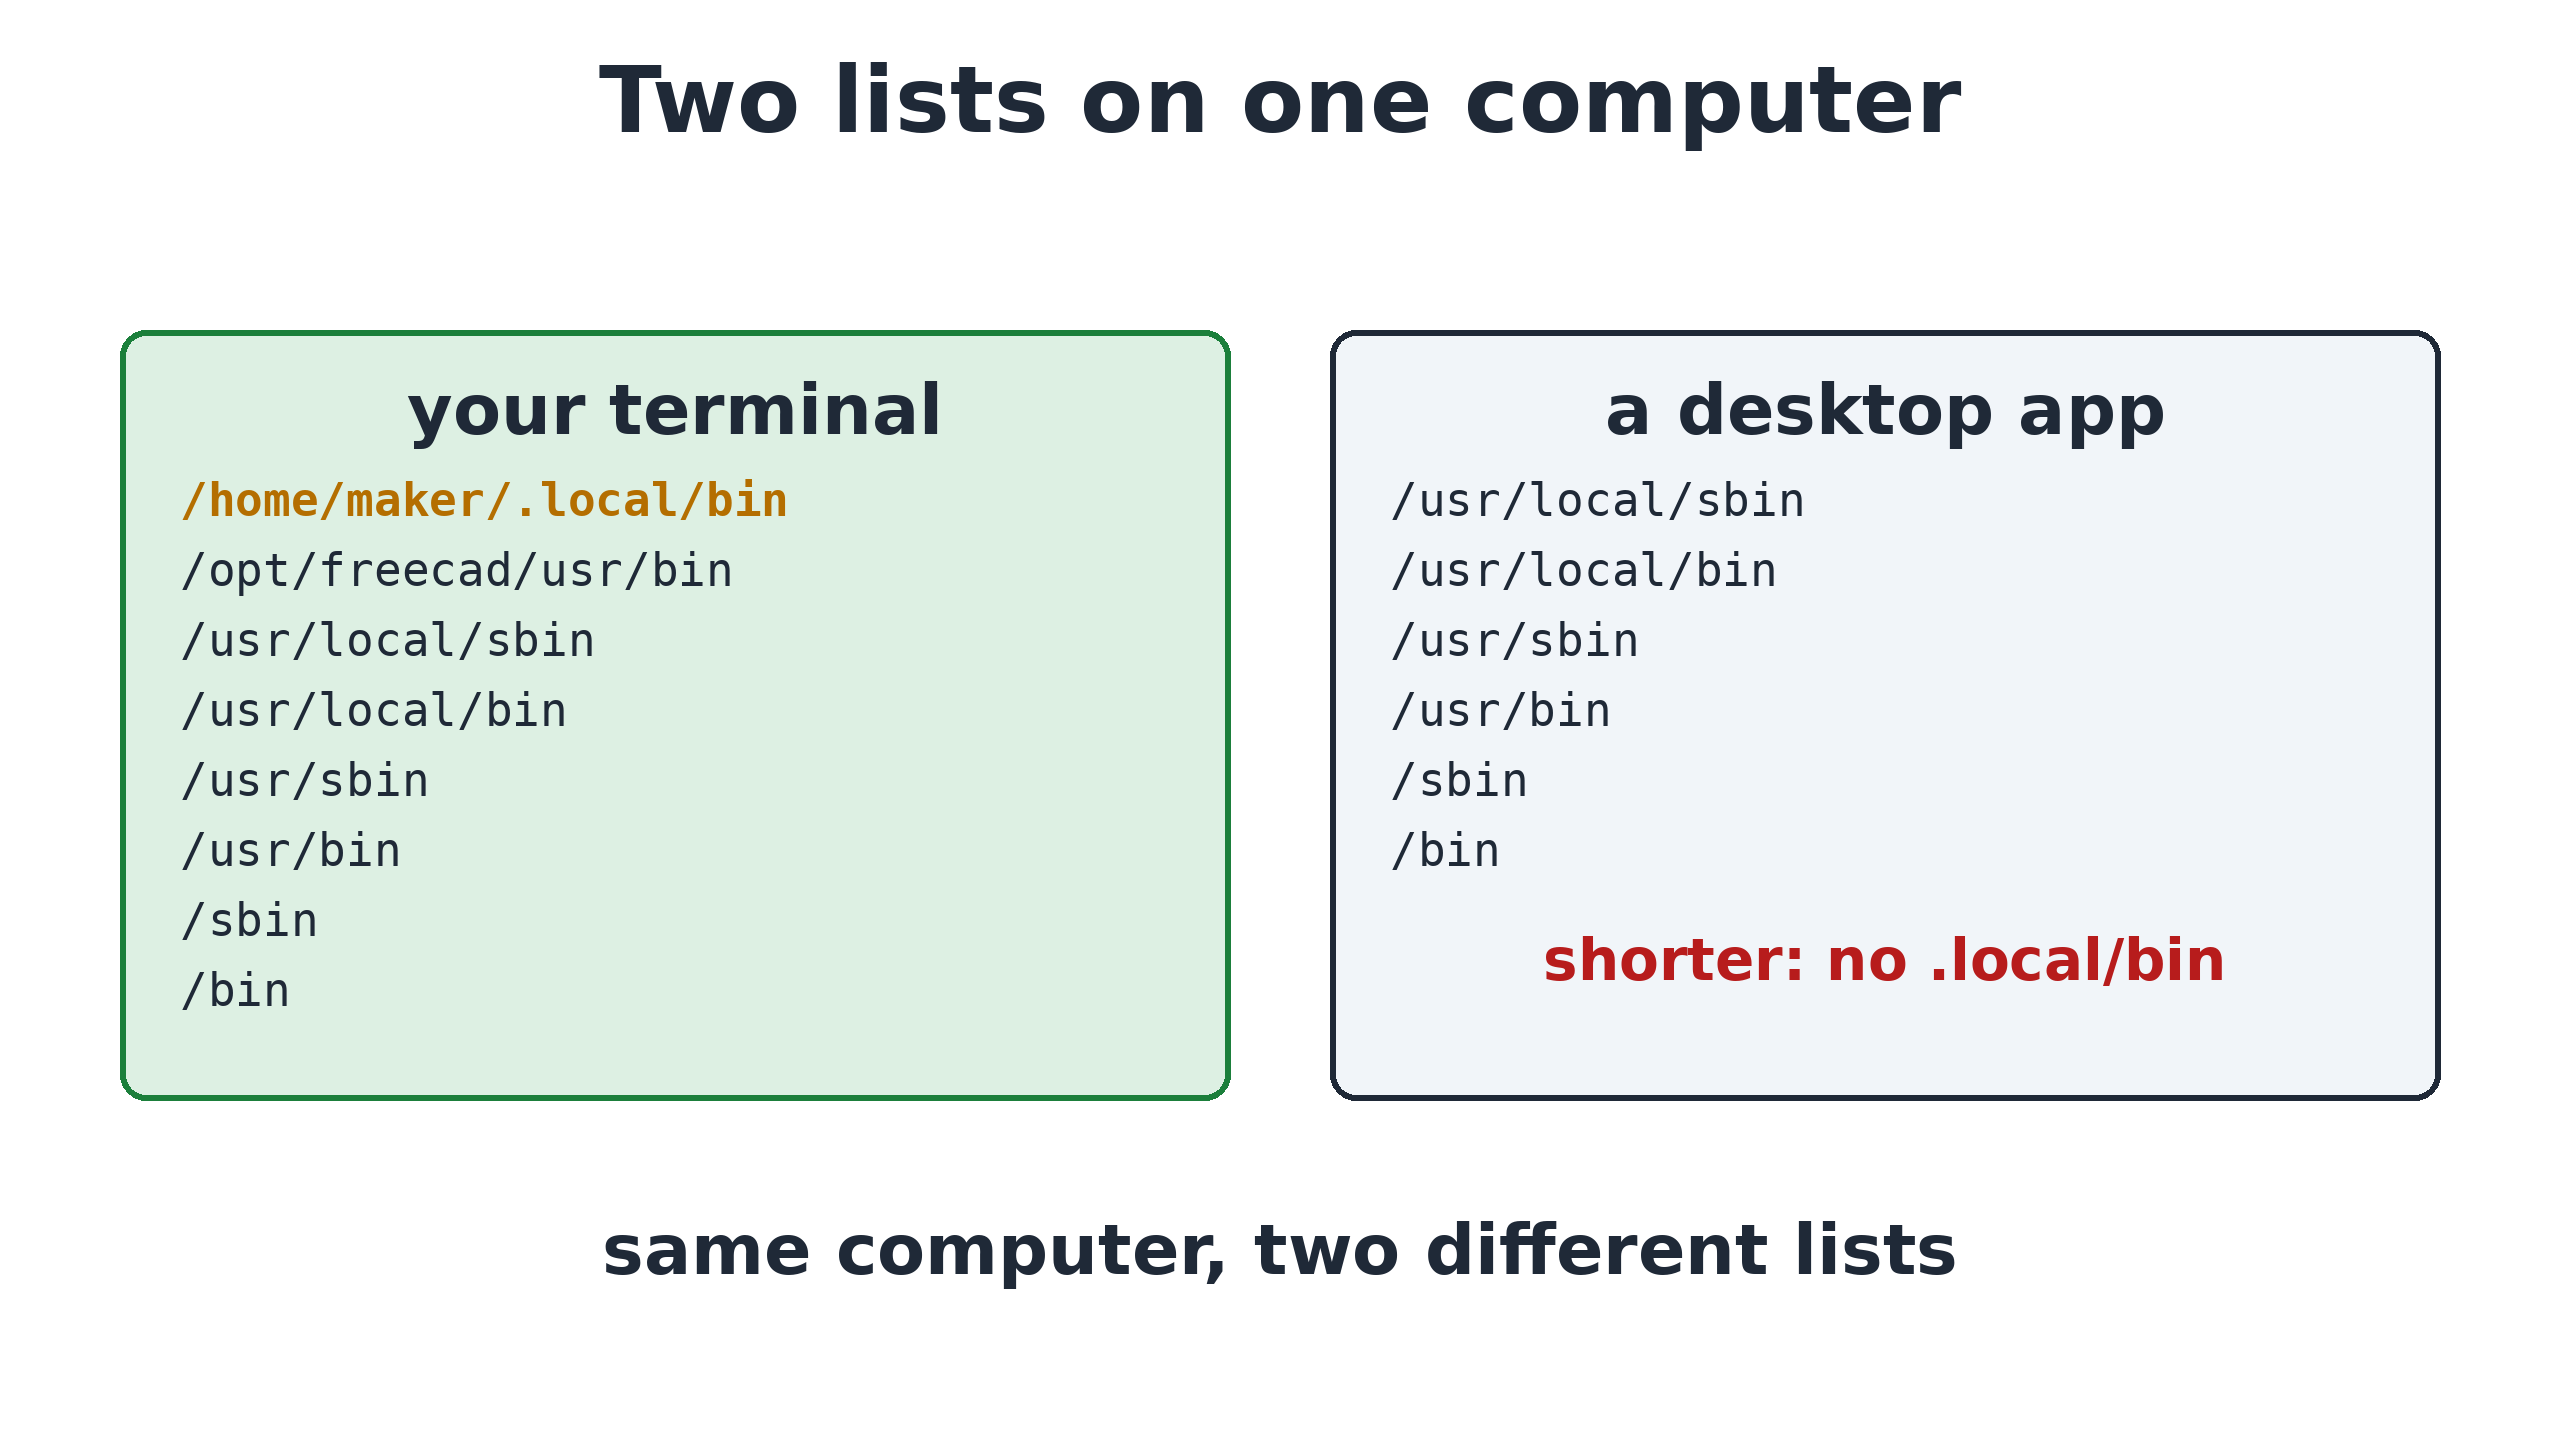
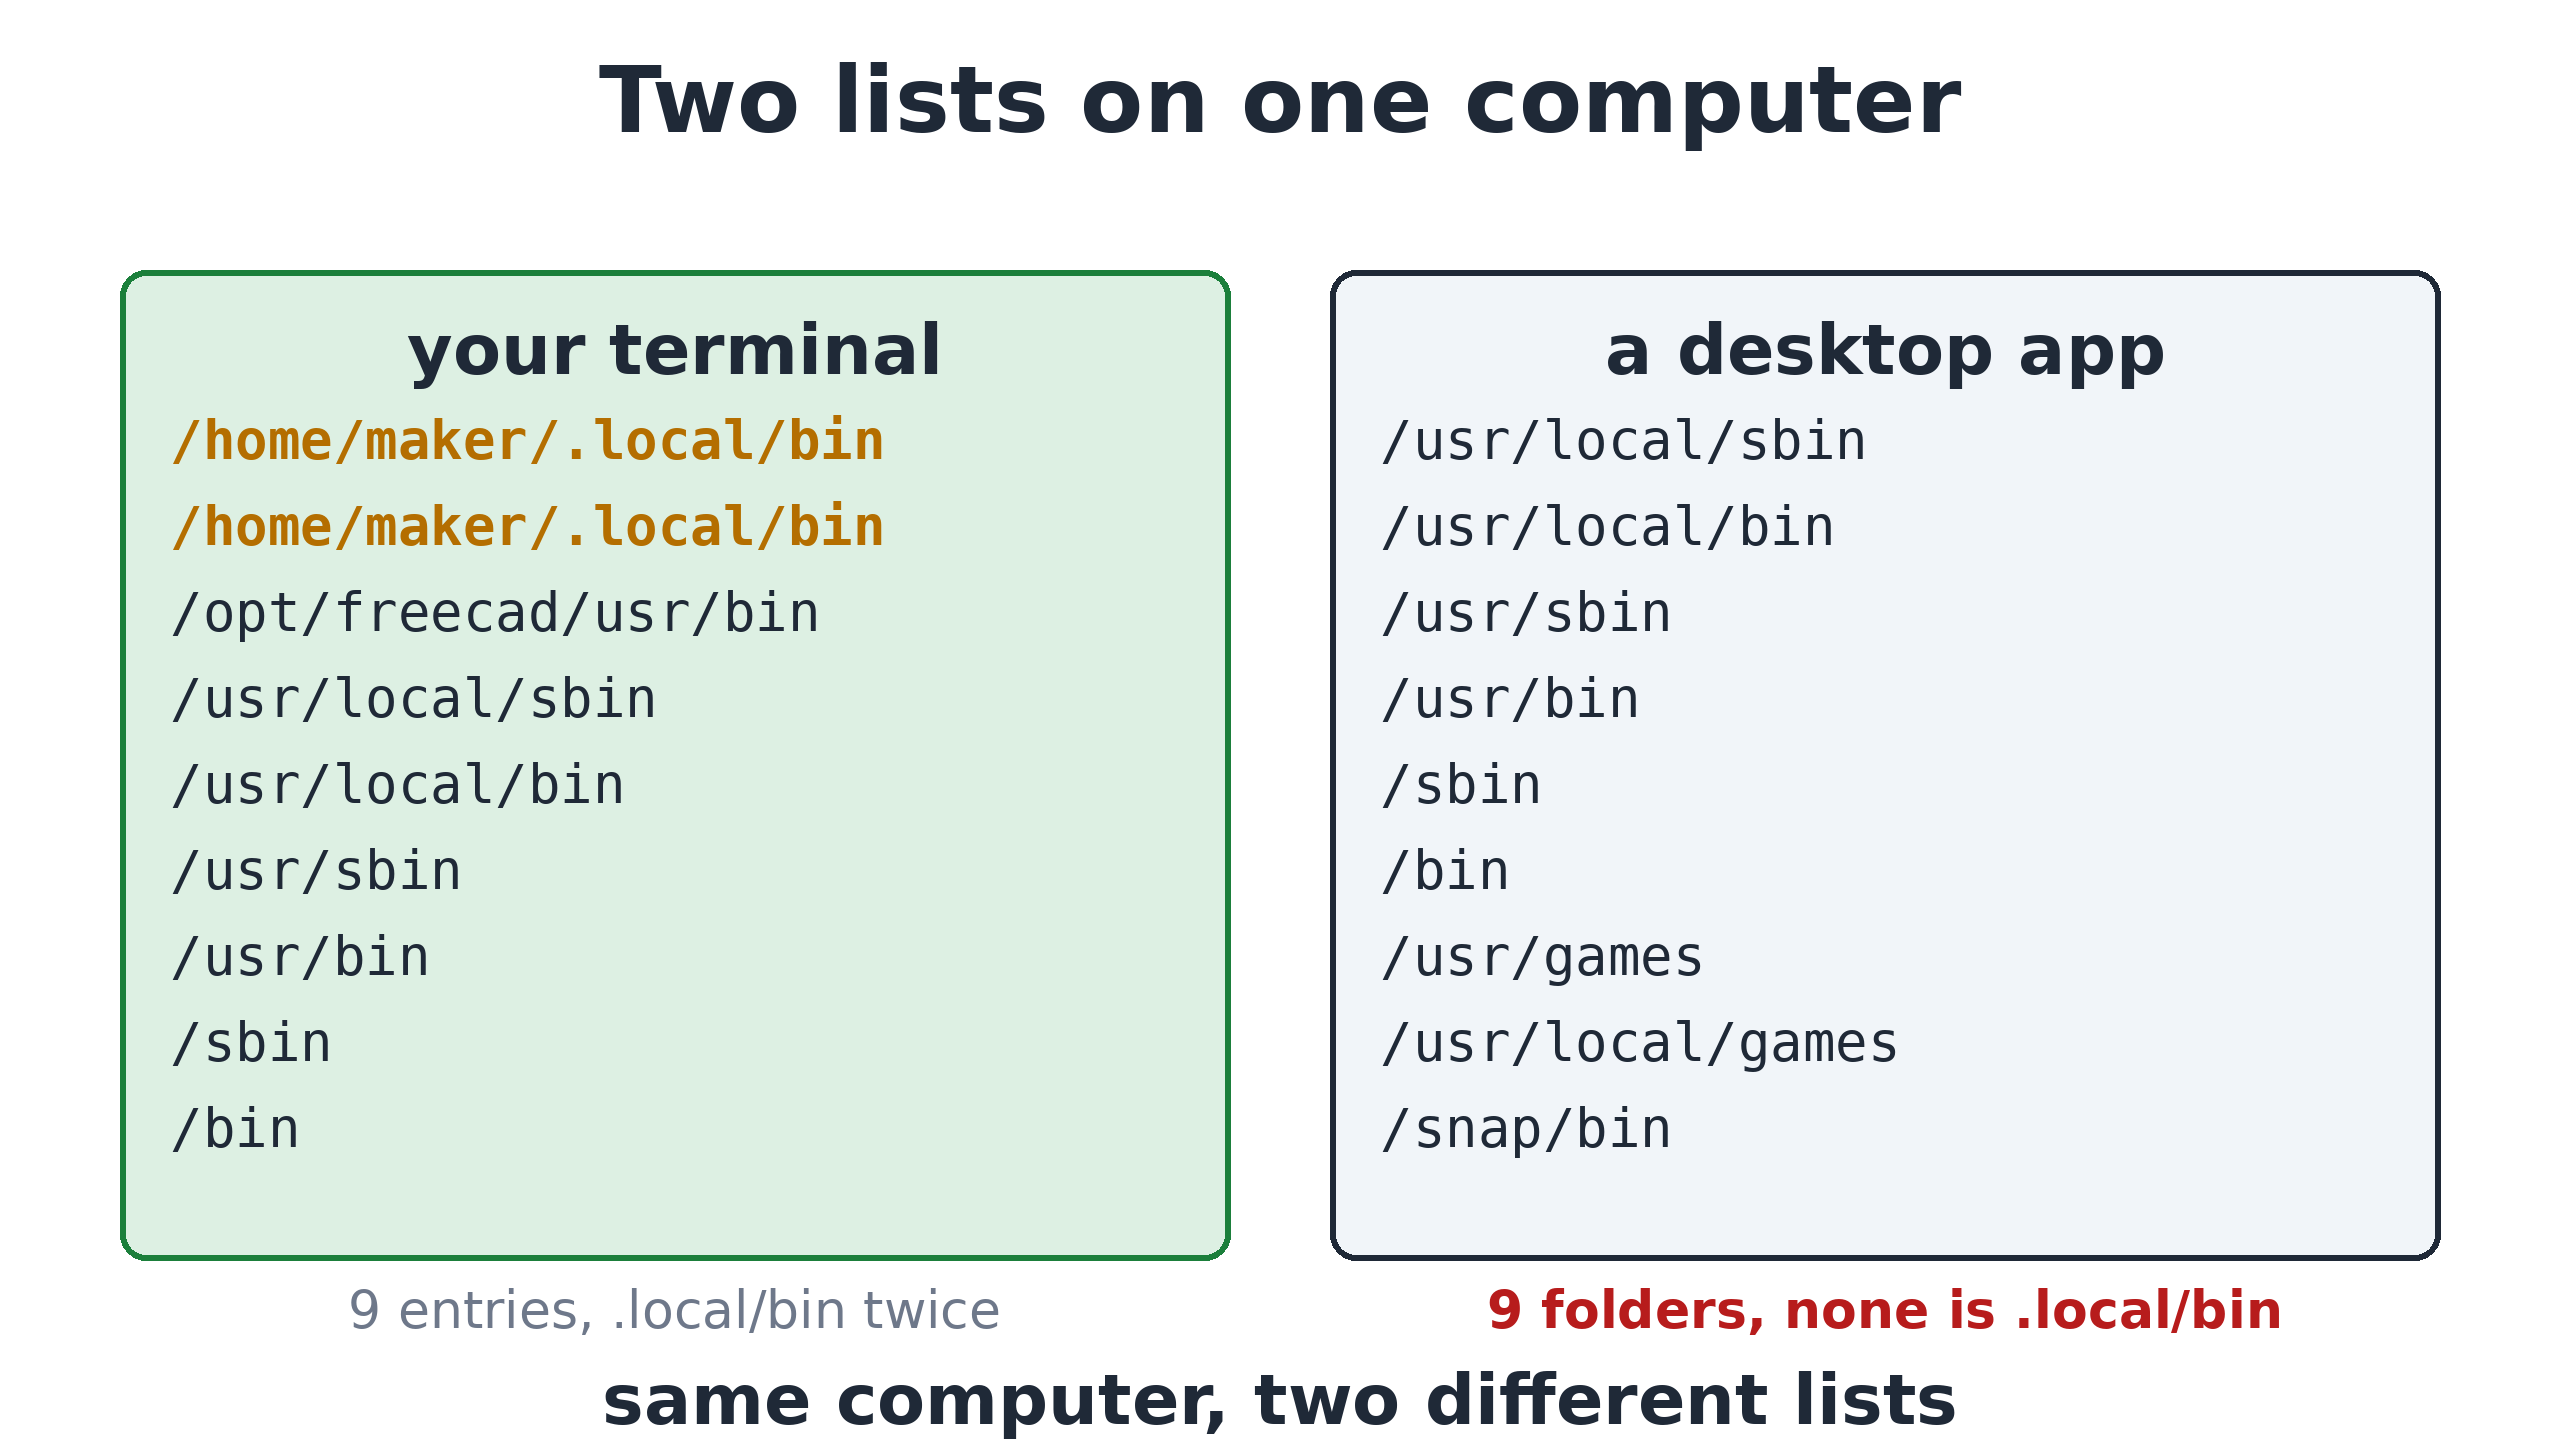
fx3 cut 2 cards: nine-folder list, larger paths card, quiz card

diff --git a/video/draw_fx3.py b/video/draw_fx3.py
@@ -66,24 +66,25 @@ def card_lists(step):
     im, d = canvas(bg=WHITE)
     if step == 1:
         header(d, 'Two lists on one computer')
-        box(d, 120, 330, 1230, 1100, fill=GREEN_BG, outline=GREEN)
-        text(d, (675, 410), 'your terminal', 70, INK, anchor='mm')
-        for k, p in enumerate(LONG[1:]):
+        box(d, 120, 270, 1230, 1260, fill=GREEN_BG, outline=GREEN)
+        text(d, (675, 350), 'your terminal', 70, INK, anchor='mm')
+        for k, p in enumerate(LONG):
             hot = '.local/bin' in p
-            text(d, (180, 500 + k * 70), p, 46, AMBER if hot else INK, path=MONOB if hot else MONO, anchor='lm')
-        box(d, 1330, 330, 2440, 1100, fill=LIGHT, outline=INK)
-        text(d, (1885, 410), 'a desktop app', 70, INK, anchor='mm')
-        for k, p in enumerate(SHORT[:6]):
-            text(d, (1390, 500 + k * 70), p, 46, INK, path=MONO, anchor='lm')
-        text(d, (1885, 960), 'shorter: no .local/bin', 58, RED, anchor='mm')
-        text(d, (1280, 1250), 'same computer, two different lists', 70, INK, anchor='mm')
+            text(d, (170, 440 + k * 86), p, 54, AMBER if hot else INK, path=MONOB if hot else MONO, anchor='lm')
+        box(d, 1330, 270, 2440, 1260, fill=LIGHT, outline=INK)
+        text(d, (1885, 350), 'a desktop app', 70, INK, anchor='mm')
+        for k, p in enumerate(SHORT):
+            text(d, (1380, 440 + k * 86), p, 54, INK, path=MONO, anchor='lm')
+        text(d, (675, 1310), '9 entries, .local/bin twice', 52, GREY, R, anchor='mm')
+        text(d, (1885, 1310), '9 folders, none is .local/bin', 52, RED, anchor='mm')
+        text(d, (1280, 1400), 'same computer, two different lists', 70, INK, anchor='mm')
     elif step == 2:
         header(d, 'The system\'s default list')
         box(d, 160, 300, 2400, 1080)
         for k, p in enumerate(SHORT):
             col, row = divmod(k, 5)
             text(d, (260 + col * 1080, 400 + row * 120), p, 58, INK, path=MONO, anchor='lm')
-        text(d, (1280, 1000), 'nine folders, no .local/bin on it', 64, RED, anchor='mm')
+        text(d, (1280, 1000), 'nine folders, none is .local/bin', 64, RED, anchor='mm')
         text(d, (1280, 1140), 'measured in Docker, from /etc/environment', 52, GREY, R, anchor='mm')
         text(d, (1280, 1230), 'a real app\'s list may be longer:', 52, GREY, R, anchor='mm')
         text(d, (1280, 1310), 'what matters is that .local/bin is missing', 52, GREY, R, anchor='mm')
@@ -152,18 +153,29 @@ def card_paths():
     rows = [('macOS', '~/Library/Application Support/Claude/', '~/Library/Logs/Claude'),
             ('Windows', '%APPDATA%\\Claude\\', '%APPDATA%\\Claude\\logs'),
             ('Linux', '~/.config/Claude/', '~/.config/Claude/logs')]
-    text(d, (560, 270), 'config file folder', 54, GREY, R, anchor='mm')
-    text(d, (1850, 270), 'log folder', 54, GREY, R, anchor='mm')
     for k, (osn, cfg, log) in enumerate(rows):
-        y = 330 + k * 270
-        box(d, 100, y, 2460, y + 230)
-        text(d, (150, y + 50), osn, 62, BLUE, anchor='lm')
-        text(d, (150, y + 150), cfg, 48, INK, path=MONO, anchor='lm')
-        text(d, (1330, y + 150), log, 48, INK, path=MONO, anchor='lm')
-    text(d, (1280, 1180), 'file: claude_desktop_config.json', 58, INK, path=MONO, anchor='mm')
-    text(d, (1280, 1280), 'from the MCP docs (connect-local-servers)', 52, GREY, R, anchor='mm')
-    text(d, (1280, 1360), 'Windows: write every backslash twice', 52, AMBER, anchor='mm')
+        y = 230 + k * 330
+        box(d, 80, y, 2480, y + 300)
+        text(d, (130, y + 52), osn, 66, BLUE, anchor='lm')
+        text(d, (560, y + 52), 'config:', 54, GREY, R, anchor='lm')
+        text(d, (790, y + 52), cfg, 64, INK, path=MONO, anchor='lm')
+        text(d, (560, y + 150), 'logs:', 54, GREY, R, anchor='lm')
+        text(d, (790, y + 150), log, 64, INK, path=MONO, anchor='lm')
+    text(d, (1280, 1250), 'file: claude_desktop_config.json', 66, INK, path=MONO, anchor='mm')
+    text(d, (1280, 1340), 'Windows: write every backslash twice', 66, AMBER, anchor='mm')
+    text(d, (1280, 1410), 'from the MCP docs (connect-local-servers)', 48, GREY, R, anchor='mm')
     save(im, 'card-paths.png')
+
+
+def card_quiz():
+    im, d = canvas(bg=WHITE)
+    header(d, 'Your turn: pause and think')
+    box(d, 160, 330, 2400, 1000, fill=AMBER_BG, outline=AMBER)
+    text(d, (1280, 520), 'you add .local/bin to', 96, INK, anchor='mm')
+    text(d, (1280, 650), "your terminal's start-up file", 96, INK, anchor='mm')
+    text(d, (1280, 840), 'does the desktop app find uvx?', 100, AMBER, anchor='mm')
+    text(d, (1280, 1180), 'pause the video and think', 64, GREY, R, anchor='mm')
+    save(im, 'card-quiz.png')
 
 
 def card_sofar(step):
@@ -245,6 +257,7 @@ if __name__ == '__main__':
     for s in (1, 2, 3, 4):
         card_lists(s)
     card_paths()
+    card_quiz()
     for s in (1, 2, 3):
         card_sofar(s)
         card_recap(s)
